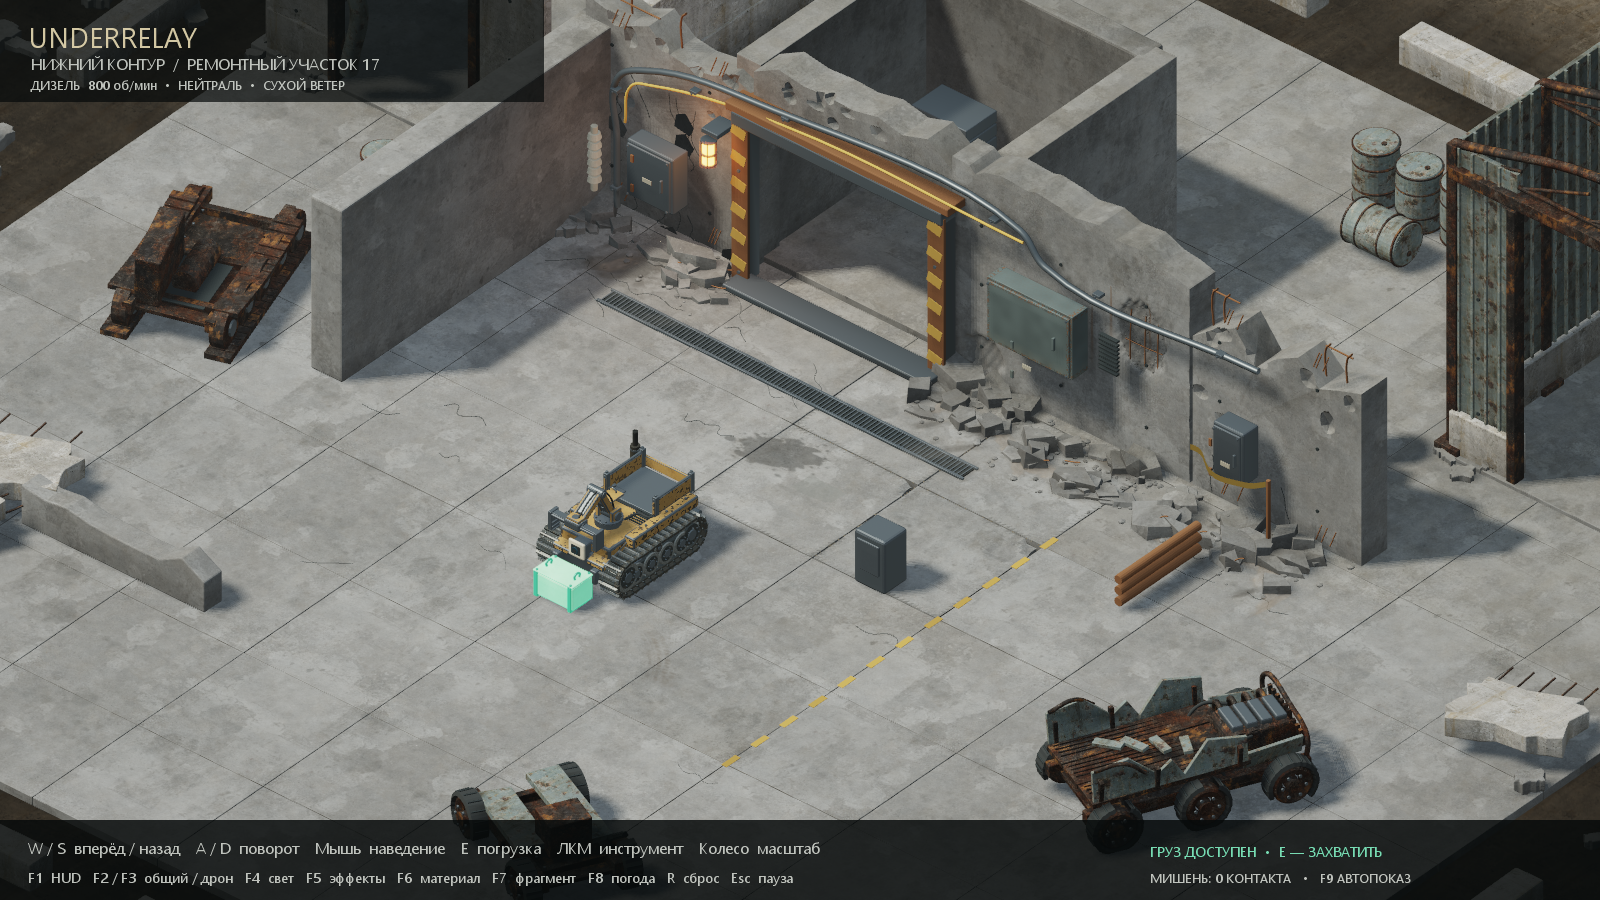
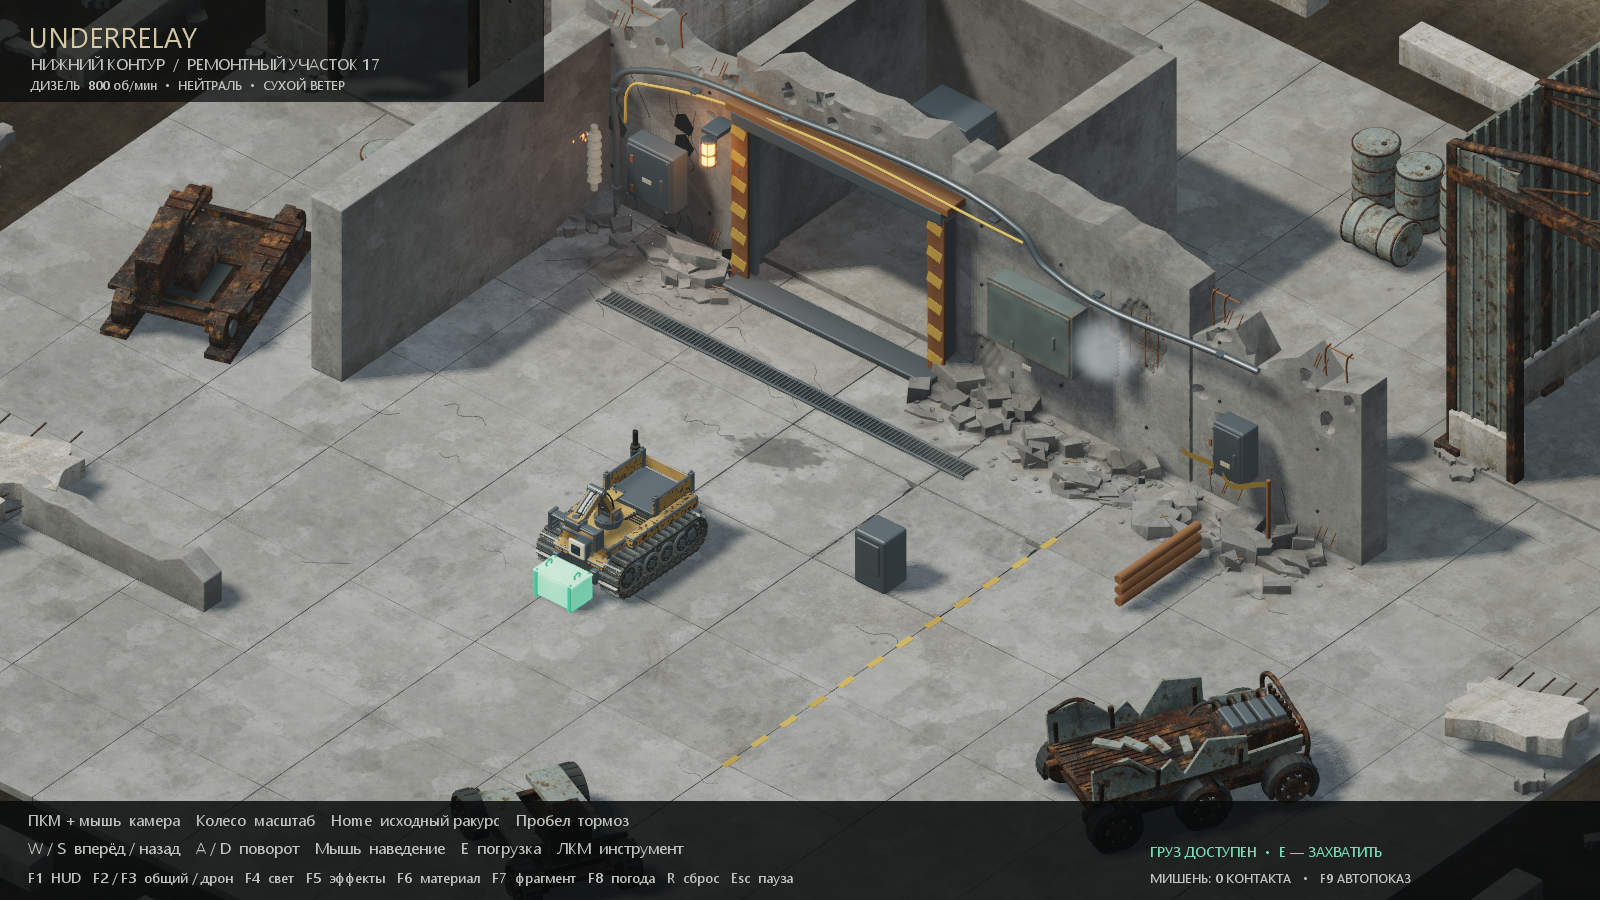
Prepare V0.1.1 orbit camera demo

diff --git a/CHANGELOG.md b/CHANGELOG.md
@@ -1,5 +1,9 @@
 # Изменения
 
+## V0.1.1 — 20.09.2026
+
+ПКМ + движение мыши вращает камеру на 360° и наклоняет от 25° до 65°. Home возвращает исходный угол; тормоз перенесён на пробел. Пока камера вращается, наведение манипулятора удерживается. Проекция грунта, выбор мышью и дым/пар согласованы с новым ракурсом. Сохранены движение относительно корпуса, погрузка и непрерывный дизель.
+
 ## V0.1.0 — 20.09.2026
 
 Первый публичный показ Underrelay. Исправлен звук: синтетическая пульсация удалена, записанная основа дизеля непрерывна на холостом ходу и нейтрали. Сохранены звуки движения, гидравлики и передачи. Дальний промышленный фон снят из-за несоответствия перспективы; пар, искры и погода в 3D-сцене работают.
